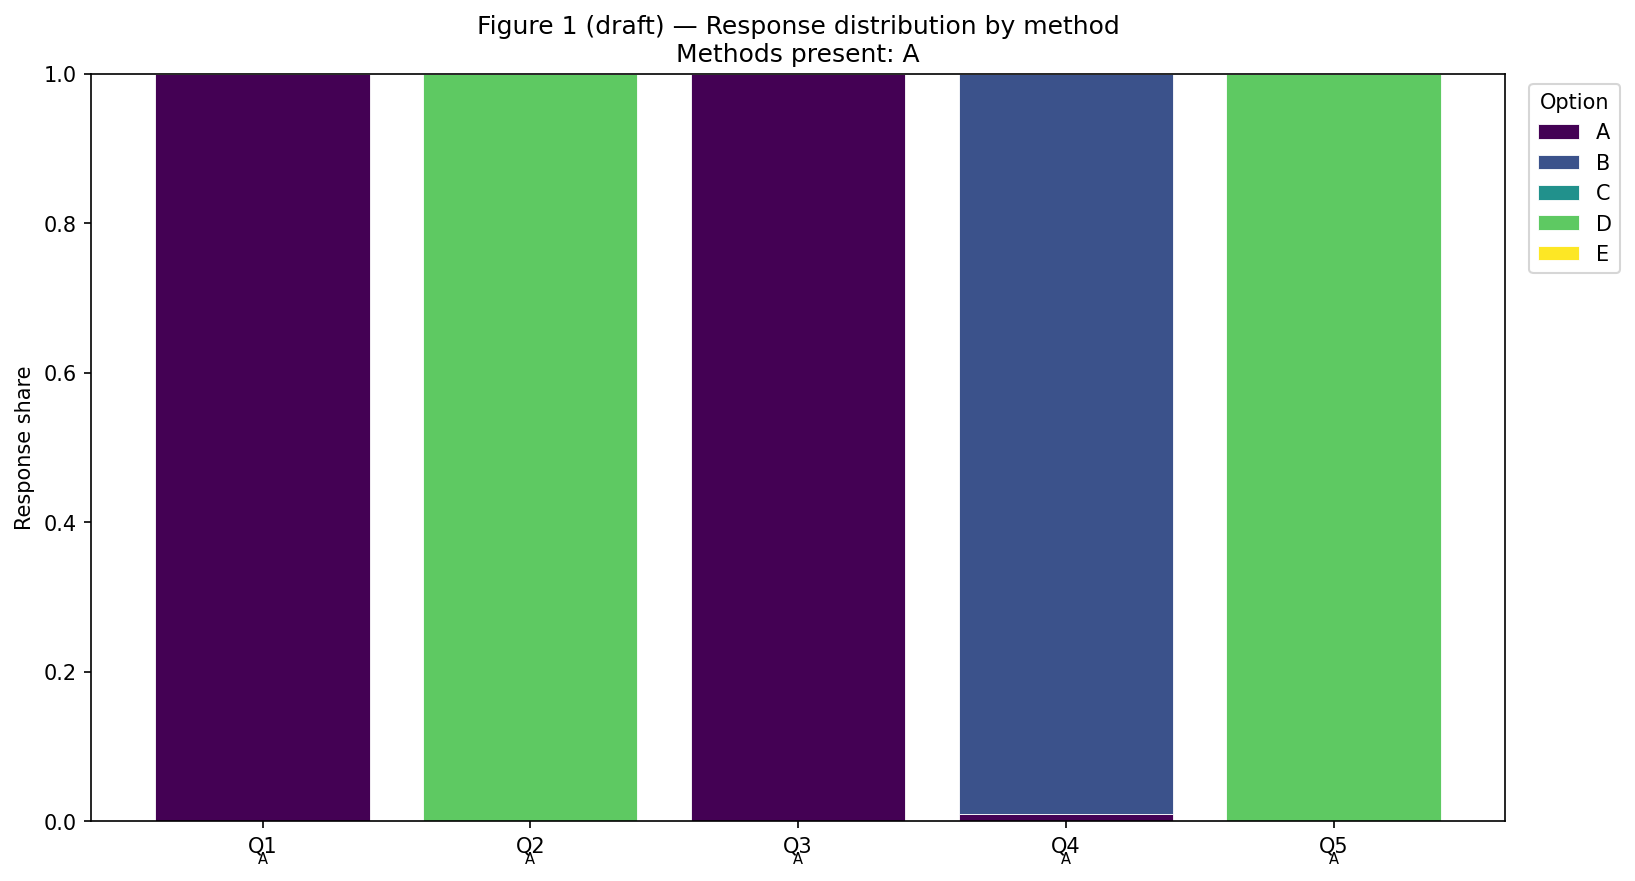
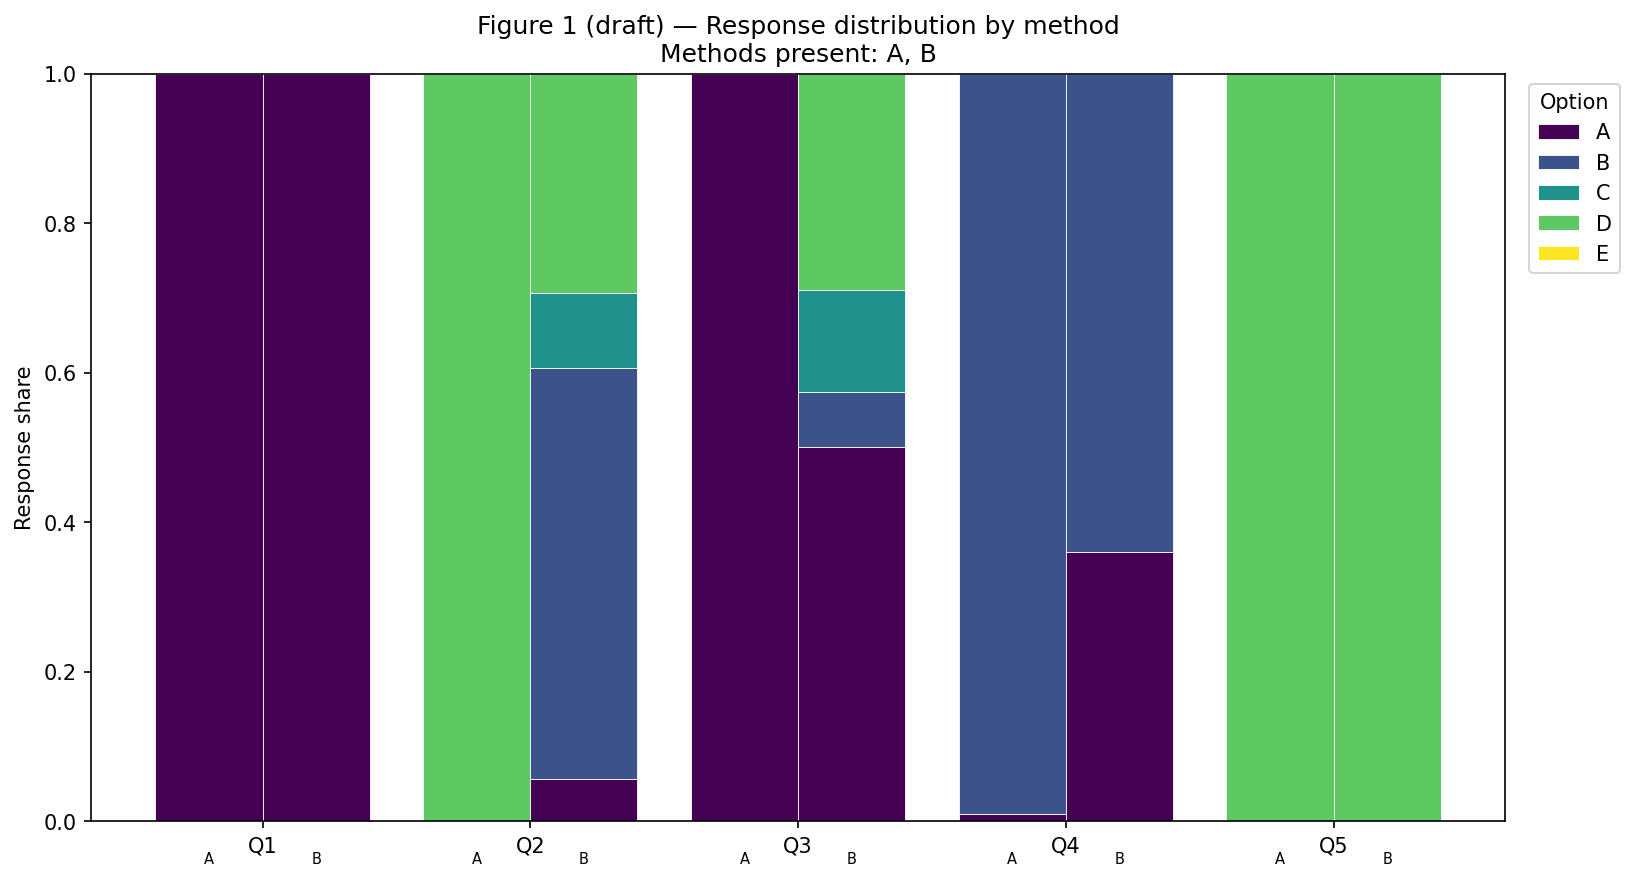
feat: run Method B full; persist persona sidecar; extend Figure 1 to A+B

Changed region(s): [[0.3119, 0.3065, 0.4055, 0.9501], [0.4055, 0.0306, 0.5615, 0.521], [0.655, 0.6129, 0.7174, 0.9501]]

diff --git a/src/run.py b/src/run.py
@@ -55,16 +55,34 @@ METHOD_BUILDERS = {
 }
 
 
-def build_tasks(method: str, n_personas: int, questions: list[dict], n_repeats: int):
+def build_tasks(panel: list[dict], questions: list[dict], n_repeats: int):
     """Return a flat list of (rep, persona, question) tuples to administer."""
-    builder, _ = METHOD_BUILDERS[method]
-    panel = builder(n_personas)
     tasks = []
     for rep in range(n_repeats):
         for p in panel:
             for q in questions:
                 tasks.append((rep, p, q))
     return tasks
+
+
+def write_personas_sidecar(method: str, panel: list[dict]) -> Path:
+    """Persist persona metadata (profile / traits / narrative) alongside results.
+
+    The survey JSONL keys responses by persona_id only; this sidecar maps each
+    persona_id to its demographic profile (Method B), behavioural traits (D), and
+    narrative (C/D), so analyses can split responses by subgroup. The `system`
+    prompt text itself is omitted to keep the file readable.
+    """
+    path = RESULTS_RAW / f"{method}_personas.jsonl"
+    path.parent.mkdir(parents=True, exist_ok=True)
+    with open(path, "w") as f:
+        for p in panel:
+            rec = {"persona_id": p["persona_id"], "method": p["method"]}
+            for key in ("profile", "traits", "narrative"):
+                if key in p:
+                    rec[key] = p[key]
+            f.write(json.dumps(rec) + "\n")
+    return path
 
 
 def run_method(
@@ -77,10 +95,11 @@ def run_method(
     confirm: bool = True,
 ) -> None:
     client = Client()
-    _, template_name = METHOD_BUILDERS[method]
+    builder, template_name = METHOD_BUILDERS[method]
     template = survey.load_template(template_name)
     questions = survey.load_questions()[:n_questions]
-    tasks = build_tasks(method, n_personas, questions, n_repeats)
+    panel = builder(n_personas)
+    tasks = build_tasks(panel, questions, n_repeats)
     n_calls = len(tasks)
 
     pricing = {
@@ -99,6 +118,9 @@ def run_method(
             "confirm-threshold; re-run with --yes to proceed."
         )
         return
+
+    sidecar = write_personas_sidecar(method, panel)
+    print(f"[personas] wrote {len(panel)} persona records to {sidecar}")
 
     # Pre-render each question's prompt + valid letters once.
     rendered = {
